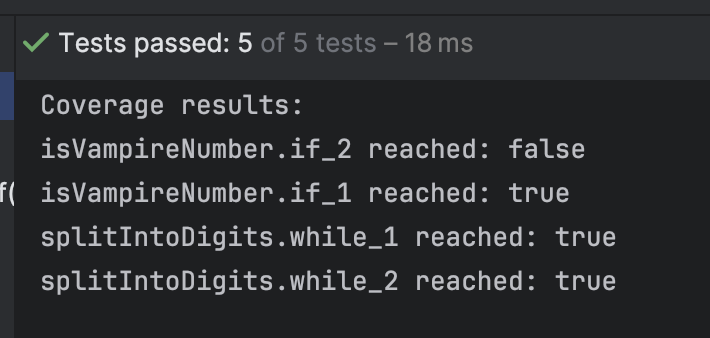
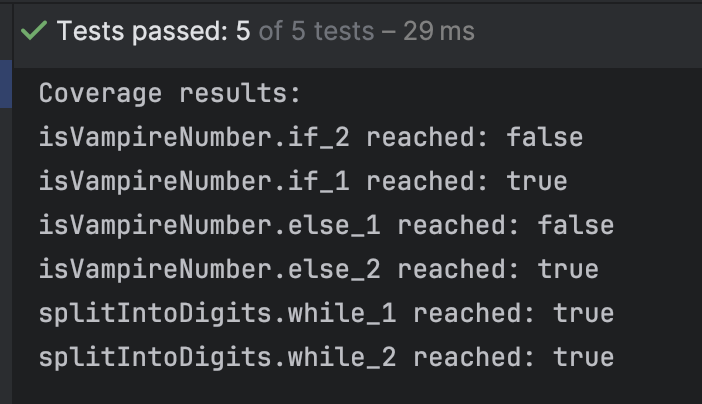
Added coverage to hidden else statements as they are branches too.

diff --git a/src/main/java/com/thealgorithms/maths/VampireNumber.java b/src/main/java/com/thealgorithms/maths/VampireNumber.java
@@ -28,8 +28,11 @@ public final class VampireNumber {
         // Initialize coverage tracking map for all branches
         coverageMap.put("isVampireNumber.if_1", false);
         coverageMap.put("isVampireNumber.if_2", false);
+        coverageMap.put("isVampireNumber.else_2", false);
+        coverageMap.put("isVampireNumber.else_1", false);
         coverageMap.put("splitIntoDigits.while_1", false);
         coverageMap.put("splitIntoDigits.while_2", false);
+
 
     }
 
@@ -58,13 +61,19 @@ public final class VampireNumber {
     static boolean isVampireNumber(int a, int b, boolean noPseudoVamireNumbers) {
         // this is for pseudoVampireNumbers  pseudovampire number need not be of length n/2 digits
         // for example 126 = 6 x 21
-        if (noPseudoVamireNumbers) {
+
+        if (noPseudoVamireNumbers) { // coverage id = 1
             coverageMap.put("isVampireNumber.if_1", true);
 
-            if (a * 10 <= b || b * 10 <= a) {
+            if (a * 10 <= b || b * 10 <= a) { // coverage id = 2
                 coverageMap.put("isVampireNumber.if_2", true);
                 return false;
+            } else {
+                coverageMap.put("isVampireNumber.else_2", true);
             }
+
+        } else {
+            coverageMap.put("isVampireNumber.else_1", true);
         }
 
         String mulDigits = splitIntoDigits(a * b, 0);
@@ -106,6 +115,8 @@ public final class VampireNumber {
     public static void resetCoverage() {
         coverageMap.put("isVampireNumber.if_1", false);
         coverageMap.put("isVampireNumber.if_2", false);
+        coverageMap.put("isVampireNumber.else_2", false);
+        coverageMap.put("isVampireNumber.else_1", false);
         coverageMap.put("splitIntoDigits.while_1", false);
         coverageMap.put("splitIntoDigits.while_2", false);
     }
